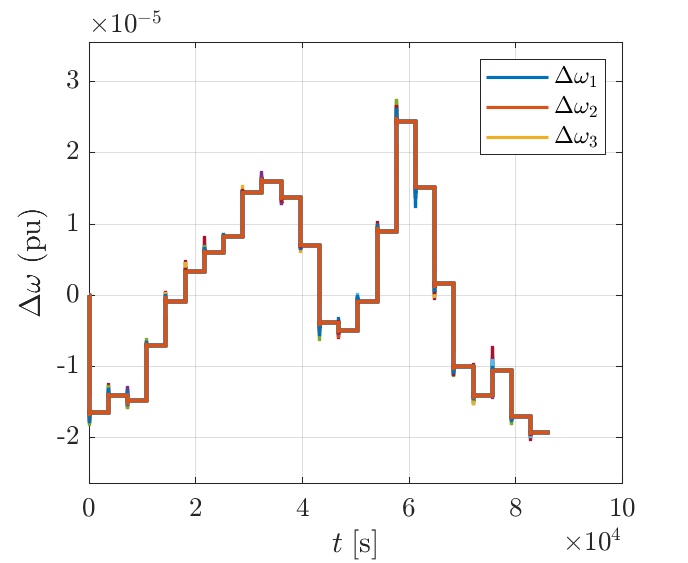
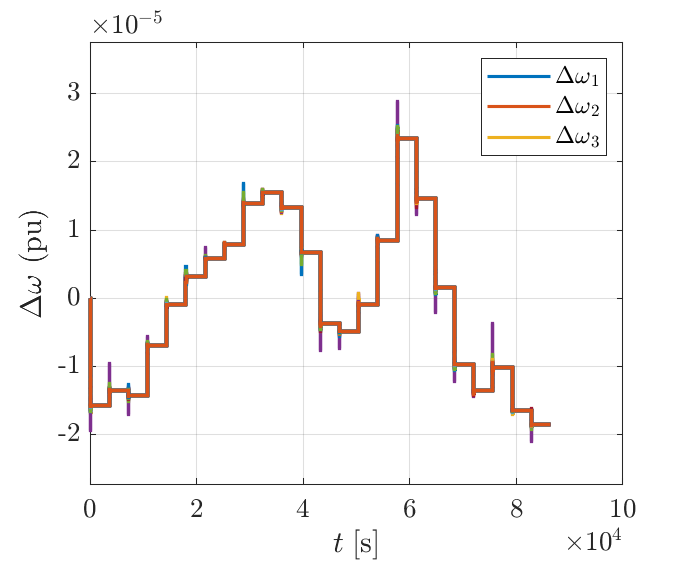
disturbance corrected

diff --git a/canonical_test.m b/canonical_test.m
@@ -4,7 +4,7 @@ run('../plot_options');
 addpath('../../pstess/')
 
 [g,bus,line] = get_g('data3');
-[g,bus,line] = get_g('AutoSynGrid_3000');
+%[g,bus,line] = get_g('AutoSynGrid_3000');
 [g,bus,line] = get_g('IEEE_bus_118');
 
 % bus(bus(:,10)==2,11) = 0;
@@ -25,8 +25,10 @@ n_areas = 250;
 %n_areas = 20;
 n_areas = 30;
 
+flag_integrator = 1;
 
-[A_global,B_global,C,D,W_global,~,E,L,areas,network,bus_ss,rows_NC] = get_global_ss(g,bus,n_areas,0,1,1);
+
+[A_global,B_global,C,D,W_global,E,~,g,areas,network,bus_ss,rows_NC] = get_global_ss(g,bus,n_areas,0,1,flag_integrator);
 n_ren = size(rows_NC,2);
 B = B_global;
 check_rank = [B A_global*B (A_global^2)*B (A_global^3)*B (A_global^4)*B_global (A_global^5)*B_global (A_global^6)*B_global (A_global^7)*B_global (A_global^7)*B_global (A_global^8)*B_global (A_global^9)*B_global (A_global^10)*B_global] ;
@@ -38,8 +40,8 @@ n = sum(sum(check_rank==0,2)==size(check_rank,2))
 n_ren
 h = 2.5;
 
-[A,B,W] = discrete_dynamics(A_global,B_global,W_global,h,L);
-W_ = permute_matrix(A,rows_NC(1,:));
+[A,B,W] = discrete_dynamics(A_global,B_global,W_global,h);
+W_ = permute_matrix(A,rows_NC);
 
 %plot_network(areas,line,n_areas);
 
@@ -56,12 +58,18 @@ x0 = zeros(size(A,1),1);
 
 mask = t > 30;
 
-w = get_disturbance_profile(w,h,n_areas,simulation_hours,rows_NC(:,2));
+w = get_disturbance_profile(w,h,n_areas,simulation_hours,g.n_ren);
 
 R_ = 0.01;
 
-q = sum(C(1:4:end,:),1);
-q = q + -10*sum(C(3:4:end,:),1);
+if flag_integrator
+    q = sum(C(1:4:end,:),1);
+else
+    q = sum(C(1:3:end,:),1);
+end
+if flag_integrator
+    q = q + -10*sum(C(3:4:end,:),1);
+end
 
 
 
@@ -134,29 +142,29 @@ for control_type = 1:1
 
 
         
-        y(1:4:end-n_areas,k) = min(max(y(1:4:end-n_areas,k),-freq_limit),freq_limit);
-
-        %Controller performance metric
-        %all(abs(y(1:3:end-n_areas,k+1)) < 1e-9)
-        if all(abs(y(1:3:end-n_areas,k+1)) < 1e-9) && flag
-            t_settling = ((k-k_(hour))*h );
-            time_settling(1,hour) =  t_settling;
-            flag = 0;
-
-        end
+        % y(1:4:end-n_areas,k) = min(max(y(1:4:end-n_areas,k),-freq_limit),freq_limit);
+        % 
+        % %Controller performance metric
+        % %all(abs(y(1:3:end-n_areas,k+1)) < 1e-9)
+        % if all(abs(y(1:3:end-n_areas,k+1)) < 1e-9) && flag
+        %     t_settling = ((k-k_(hour))*h );
+        %     time_settling(1,hour) =  t_settling;
+        %     flag = 0;
+        % 
+        % end
 
 
         %Get the control action per area
-        for i=1:n_areas
-            u_area(i,k) = sum(u(1+sum(bus_ss(1:i-1,3)):sum(bus_ss(1:i-1,3))+bus_ss(i,3),3));
-        end
+        % for i=1:n_areas
+        %     u_area(i,k) = sum(u(1+sum(bus_ss(1:i-1,3)):sum(bus_ss(1:i-1,3))+bus_ss(i,3),3));
+        % end
 
     end
 
-    disp_cost_area(control_type,:) = sum(u_area(1:end,:),2);
-    disp_cost_machine(control_type,:) = sum(u(1:end,:),2);
-    frequency_error_cost(control_type,:) = sum(abs(y(1:3:end-n_areas,:)),2)';
-    time_settling_cost(control_type,:) = time_settling;
+    % disp_cost_area(control_type,:) = sum(u_area(1:end,:),2);
+    % disp_cost_machine(control_type,:) = sum(u(1:end,:),2);
+    % frequency_error_cost(control_type,:) = sum(abs(y(1:3:end-n_areas,:)),2)';
+    % time_settling_cost(control_type,:) = time_settling;
     y = y';
 
 
@@ -286,10 +294,18 @@ set(gca,'TickLabelInterpreter','latex') % Latex style axis
 hold on
 grid on
 box on;
-stairs(t,y(:,1:4:end),'LineWidth',1.5);
+
+if flag_integrator
+    stairs(t,y(:,1:4:end),'LineWidth',1.5);
+    ylim([min(min(y(:,1:4:end)))*1.3,max(max(y(:,1:4:end)))*1.3])
+else
+    stairs(t,y(:,1:3:end),'LineWidth',1.5);
+    ylim([min(min(y(:,1:3:end)))*1.3,max(max(y(:,1:3:end)))*1.3])
+end
+
 yline(freq_limit,'--');
 yline(-freq_limit,'--');
-ylim([min(min(y(:,1:4:end-n_areas)))*1.3,max(max(y(:,1:4:end-n_areas)))*1.3])
+
 legend('$\Delta\omega_1$','$\Delta\omega_2$','$\Delta\omega_3$','Interpreter','latex')
 ylabel('$\Delta\omega$ (pu)','interpreter','latex');
 xlabel('$t \;[\mathrm{s}]$','Interpreter','latex');
@@ -306,7 +322,11 @@ set(gca,'TickLabelInterpreter','latex') % Latex style axis
 hold on
 grid on
 box on;
-stairs(t,y(:,2:4:end),'LineWidth',1.5);
+if flag_integrator
+    stairs(t,y(:,2:4:end),'LineWidth',1.5);
+else
+    stairs(t,y(:,2:3:end),'LineWidth',1.5);
+end
 legend('$\Delta P_{m_1}$','$\Delta P_{m_2}$','$\Delta P_{m_3}$','Interpreter','latex')
 ylabel('$\Delta P_{m}$ (pu)','interpreter','latex');
 xlabel('$t \;[\mathrm{s}]$','Interpreter','latex');
@@ -318,27 +338,34 @@ saveas(gca,title,'png');
 
 
 
+if flag_integrator
+    figure
+    set(gca,'TickLabelInterpreter','latex') % Latex style axis
+    hold on
+    grid on
+    box on;
+    stairs(t,y(:,3:4:end),'LineWidth',1.5);
+    
+    legend('$\Delta \delta_{1}$','$\Delta \delta_{2}$','$\Delta \delta_{3}$','Interpreter','latex')
+    ylabel('$\Delta \delta$ (pu)','interpreter','latex');
+    xlabel('$t \;[\mathrm{s}]$','Interpreter','latex');
+    hold off
+    set(gcf,'renderer','Painters');
+    title='./fig/delta.png';
+    saveas(gca,title,'png');
+end
+
 figure
 set(gca,'TickLabelInterpreter','latex') % Latex style axis
 hold on
 grid on
 box on;
-stairs(t,y(:,3:4:end),'LineWidth',1.5);
-legend('$\Delta \delta_{1}$','$\Delta \delta_{2}$','$\Delta \delta_{3}$','Interpreter','latex')
-ylabel('$\Delta \delta$ (pu)','interpreter','latex');
-xlabel('$t \;[\mathrm{s}]$','Interpreter','latex');
-hold off
-set(gcf,'renderer','Painters');
-title='./fig/delta.png';
-saveas(gca,title,'png');
 
-
-figure
-set(gca,'TickLabelInterpreter','latex') % Latex style axis
-hold on
-grid on
-box on;
-stairs(t,y(:,4:4:end),'LineWidth',1.5);
+if flag_integrator
+    stairs(t,y(:,4:4:end),'LineWidth',1.5);
+else
+    stairs(t,y(:,3:3:end),'LineWidth',1.5);
+end
 legend('$\Delta P_{{tie}_1}$','$\Delta P_{{tie}_2}$','$\Delta P_{{tie}_3}$','Interpreter','latex')
 ylabel('$\Delta P_{tie}$ (pu)','interpreter','latex');
 xlabel('$t \;[\mathrm{s}]$','Interpreter','latex');
@@ -350,36 +377,6 @@ saveas(gca,title,'png');
 
 
 
-
-figure
-set(gca,'TickLabelInterpreter','latex') % Latex style axis
-hold on
-grid on
-box on;
-stairs(t,w(1:2:end,:)','LineWidth',1.5);
-legend('$\Delta P_{{load}_1}$','$\Delta P_{{load}_2}$','$\Delta P_{{load}_3}$','Interpreter','latex')
-ylabel('$\Delta P_{load}$ (pu)','interpreter','latex');
-xlabel('$t \;[\mathrm{s}]$','Interpreter','latex');
-hold off
-set(gcf,'renderer','Painters');
-title='./fig/delta_p_load.png';
-saveas(gca,title,'png');
-
-
-
-figure
-set(gca,'TickLabelInterpreter','latex') % Latex style axis
-hold on
-grid on
-box on;
-stairs(t,w(2:2:end,:)','LineWidth',1.5);
-legend('$\Delta P_{{ren}_1}$','$\Delta P_{{ren}_2}$','$\Delta P_{{ren}_3}$','Interpreter','latex')
-ylabel('$\Delta P_{ren}$ (pu)','interpreter','latex');
-xlabel('$t \;[\mathrm{s}]$','Interpreter','latex');
-hold off
-set(gcf,'renderer','Painters');
-title='./fig/p_ren.png';
-saveas(gca,title,'png');
 
 
 

diff --git a/get_disturbance_profile.m b/get_disturbance_profile.m
@@ -6,17 +6,24 @@ function w = get_disturbance_profile(w,h,n_areas,simulation_hours,areas)
     w_ren_hour = w_ren_hour.w_ren(:,1:24);
 
 
-    
+    n_ren = sum(areas);
 
     if size(w_load_hour,1) < n_areas 
         w_load_hour = [repmat(w_load_hour, floor(n_areas/size(w_load_hour,1)), 1); ...
                         w_load_hour(1:mod(n_areas, size(w_load_hour,1)),:)];
-        w_ren_hour = [repmat(w_ren_hour, floor(n_areas/size(w_ren_hour,1)), 1); ...
-                        w_ren_hour(1:mod(n_areas, size(w_ren_hour,1)),:)];
     else 
         w_load_hour = w_load_hour(1:n_areas,:);
-        w_ren_hour = w_ren_hour(1:n_areas,:);
     end
+
+
+    if size(w_ren_hour,1) < n_ren
+        w_ren_hour = [repmat(w_ren_hour, floor(n_ren/size(w_ren_hour,1)), 1); ...
+                        w_ren_hour(1:mod(n_ren, size(w_ren_hour,1)),:)];
+    else 
+        w_ren_hour = w_ren_hour(1:n_ren,:);
+    end
+        
+        
 
 
     if 24 < simulation_hours 
@@ -24,11 +31,60 @@ function w = get_disturbance_profile(w,h,n_areas,simulation_hours,areas)
         w_ren_hour =  repmat(w_ren_hour,1,floor(simulation_hours/24)+1);
     end
 
+    load_index = zeros(1,size(w_load_hour,1));
+    ren_index = zeros(1,size(w_ren_hour,1));
+
+    load_index(1) = 1;
+    k = 1;
+    for i = 1:n_areas-1
+       load_index(i+1) = areas(i) + load_index(i)+1;
+       if areas(i) ~= 0
+            ren_index(k:k+areas(i)-1) = load_index(i)+1:load_index(i+1)-1;
+            k = k + areas(i);
+       end
+    end
+    
+   
+
 
     k_ = 1:1440:size(w,2);
     for hour=1:simulation_hours
-        w(1:2:end,k_(hour):k_(hour+1)) = repmat(w_load_hour(:,hour),1,1441)*100;
-        w(2:2:end,k_(hour):k_(hour+1)) = repmat(w_ren_hour(:,hour),1,1441);
+        
+        w(load_index,k_(hour):k_(hour+1)) = repmat(w_load_hour(:,hour),1,1441)*100;
+        w(ren_index,k_(hour):k_(hour+1)) = repmat(w_ren_hour(:,hour),1,1441);
+        
     end
+
+    t = 0:h:3600*simulation_hours;
+    figure
+    set(gca,'TickLabelInterpreter','latex') % Latex style axis
+    hold on
+    grid on
+    box on;
+    stairs(t,w(load_index,:)','LineWidth',1.5);
+    legend('$\Delta P_{{load}_1}$','$\Delta P_{{load}_2}$','$\Delta P_{{load}_3}$','Interpreter','latex')
+    ylabel('$\Delta P_{load}$ (pu)','interpreter','latex');
+    xlabel('$t \;[\mathrm{s}]$','Interpreter','latex');
+    hold off
+    set(gcf,'renderer','Painters');
+    title='./fig/delta_p_load.png';
+    saveas(gca,title,'png');
+    
+    
+    
+    figure
+    set(gca,'TickLabelInterpreter','latex') % Latex style axis
+    hold on
+    grid on
+    box on;
+    stairs(t,w(ren_index,:)','LineWidth',1.5);
+    legend('$\Delta P_{{ren}_1}$','$\Delta P_{{ren}_2}$','$\Delta P_{{ren}_3}$','Interpreter','latex')
+    ylabel('$\Delta P_{ren}$ (pu)','interpreter','latex');
+    xlabel('$t \;[\mathrm{s}]$','Interpreter','latex');
+    hold off
+    set(gcf,'renderer','Painters');
+    title='./fig/p_ren.png';
+    saveas(gca,title,'png');
+
 end
 

diff --git a/get_global_ss.m b/get_global_ss.m
@@ -1,4 +1,4 @@
-function [A_global,B_global,C_global,D_global,W_global,u,E,L,areas,network,bus_ss,rows_NC] = get_global_ss(g,bus,nr_areas,flag_u,flag_ren,flag_integrator)
+function [A_global,B_global,C_global,D_global,W_global,E,u,g,areas,network,bus_ss,rows_NC] = get_global_ss(g,bus,nr_areas,flag_u,flag_ren,flag_integrator)
 
     ren_data = load('data\solar.mat');
     ren_data = ren_data.data;
@@ -6,7 +6,7 @@ function [A_global,B_global,C_global,D_global,W_global,u,E,L,areas,network,bus_s
     if ~flag_u
         u = nan;
     end
-    base_mva = 100;
+    base_mva = 100
     k = nr_areas; %three areas
     
     areas = area_partitioning(g.line,k,g.mac.mac_con(:,2));
@@ -142,6 +142,7 @@ function [A_global,B_global,C_global,D_global,W_global,u,E,L,areas,network,bus_s
 
     u = [];
     s = tf('s');
+    g.n_ren = zeros(1,length(network));
     for i=1:length(network)
         u_area = [];
         % if flag_u
@@ -212,6 +213,8 @@ function [A_global,B_global,C_global,D_global,W_global,u,E,L,areas,network,bus_s
         %Add renewables state
         if any(ismember(network(i).bus,ren_data.bus)) && flag_ren
             n_ren = sum(ismember(network(i).bus,ren_data.bus)) ;
+            g.n_ren(i) = n_ren;
+
             for j = 1:n_ren
                 A = [A zeros(size(A,1),1); zeros(1,size(A,1)+1)];
                 A(1,end) = B_freq;
@@ -222,9 +225,7 @@ function [A_global,B_global,C_global,D_global,W_global,u,E,L,areas,network,bus_s
                 %u does not influence   ren 
                 B = [B; zeros(1,size(B_area,2))];
                 
-                %CHANGE THIS LINE 
-                concat = [size(A_global,1)+size(A,1); i];
-                ren_ss  = [ren_ss concat];
+                ren_ss  = [ren_ss size(A_global,1)+size(A,1)];
 
             end
             
@@ -331,8 +332,8 @@ function [A_global,B_global,C_global,D_global,W_global,u,E,L,areas,network,bus_s
 
     %L = Adjacency_matrix;
 
-    g = graph(Adjacency_matrix);
-    plot(g)
+    network_graph = graph(Adjacency_matrix);
+    plot(network_graph)
     set(gcf,'renderer','Painters');
     title='./fig/graph.png';
     saveas(gca,title,'png');

diff --git a/discrete_dynamics.m b/discrete_dynamics.m
@@ -1,4 +1,4 @@
-function [A,B,W,L] = discrete_dynamics(A_global,B_global,W_global,h,L)
+function [A,B,W] = discrete_dynamics(A_global,B_global,W_global,h)
     
     
     G = expm([A_global W_global; zeros(size(W_global,2),size(A_global,2)) zeros(size(W_global,2),size(W_global,2))]*h);
